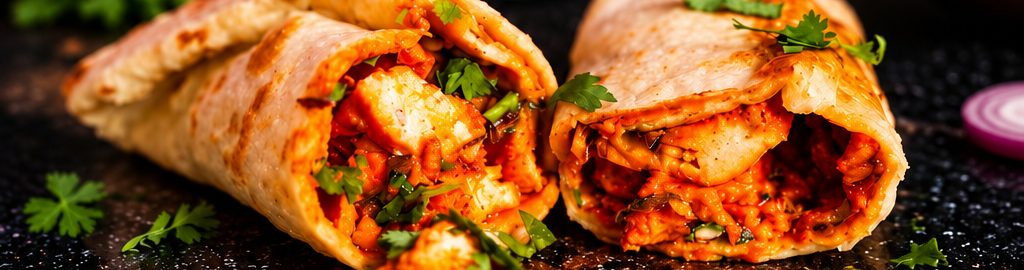
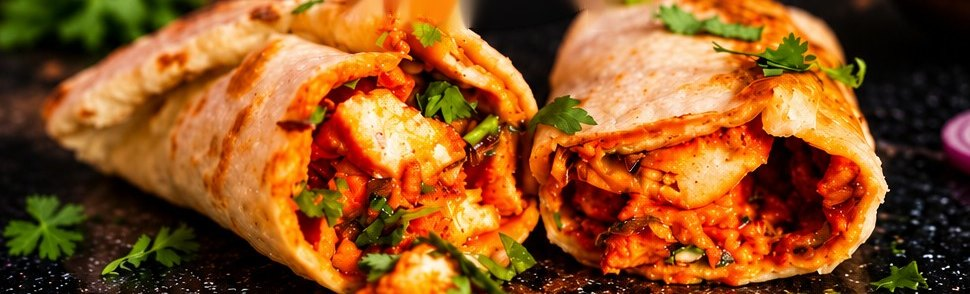
Show full food photo, use new Formspree endpoint
Claude-Session: https://claude.ai/code/session_013Mv2cTFP24PV6kmBJNJhQp

diff --git a/index.html b/index.html
@@ -34,7 +34,7 @@
   .rule::before,.rule::after{content:"";flex:1;height:1px;background:linear-gradient(90deg,transparent,var(--gold-d))}
   .rule::after{background:linear-gradient(270deg,transparent,var(--gold-d))}
   .rule svg{flex:none}
-  .photo{margin:22px 0 0;border-radius:16px;overflow:hidden;border:1px solid var(--line);box-shadow:0 18px 40px rgba(0,0,0,.45)}
+  .photo{margin:14px -6px 0;-webkit-mask-image:linear-gradient(to bottom,transparent 0,#000 20%,#000 94%,transparent 100%);mask-image:linear-gradient(to bottom,transparent 0,#000 20%,#000 94%,transparent 100%)}
   .photo img{display:block;width:100%;height:auto}
   .offer{position:relative;isolation:isolate;margin:24px 0 0;padding:30px 22px 28px;text-align:center}
   .offer::before{content:"";position:absolute;inset:0;z-index:-1;
@@ -86,7 +86,7 @@
 
   <div class="rule" aria-hidden="true"><svg width="12" height="12" viewBox="0 0 12 12" fill="currentColor"><path d="M6 0l1.6 4.4L12 6 7.6 7.6 6 12 4.4 7.6 0 6l4.4-1.6z"/></svg></div>
 
-  <div class="photo"><img src="food.jpg" width="1024" height="270" alt="Two Paneer Tikka Kati Rolls cut open, filled with spiced paneer, onion and cilantro"></div>
+  <div class="photo"><img src="food.jpg" width="970" height="294" alt="Two Paneer Tikka Kati Rolls cut open, filled with spiced paneer, onion and cilantro"></div>
 
   <section class="offer" aria-label="Opening offer">
     <div class="k">For our first 200 customers</div>
@@ -135,7 +135,7 @@
 <script>
 (function(){
   // Formspree endpoint. Submissions are emailed to the address on that Formspree form.
-  var FORM_ENDPOINT='https://formspree.io/f/xqpqzbzy';
+  var FORM_ENDPOINT='https://formspree.io/f/mvkaproe';
   var form=document.getElementById('rsvp'),btn=document.getElementById('submit'),
       err=document.getElementById('err'),thanks=document.getElementById('thanks');
   form.addEventListener('submit',function(e){
